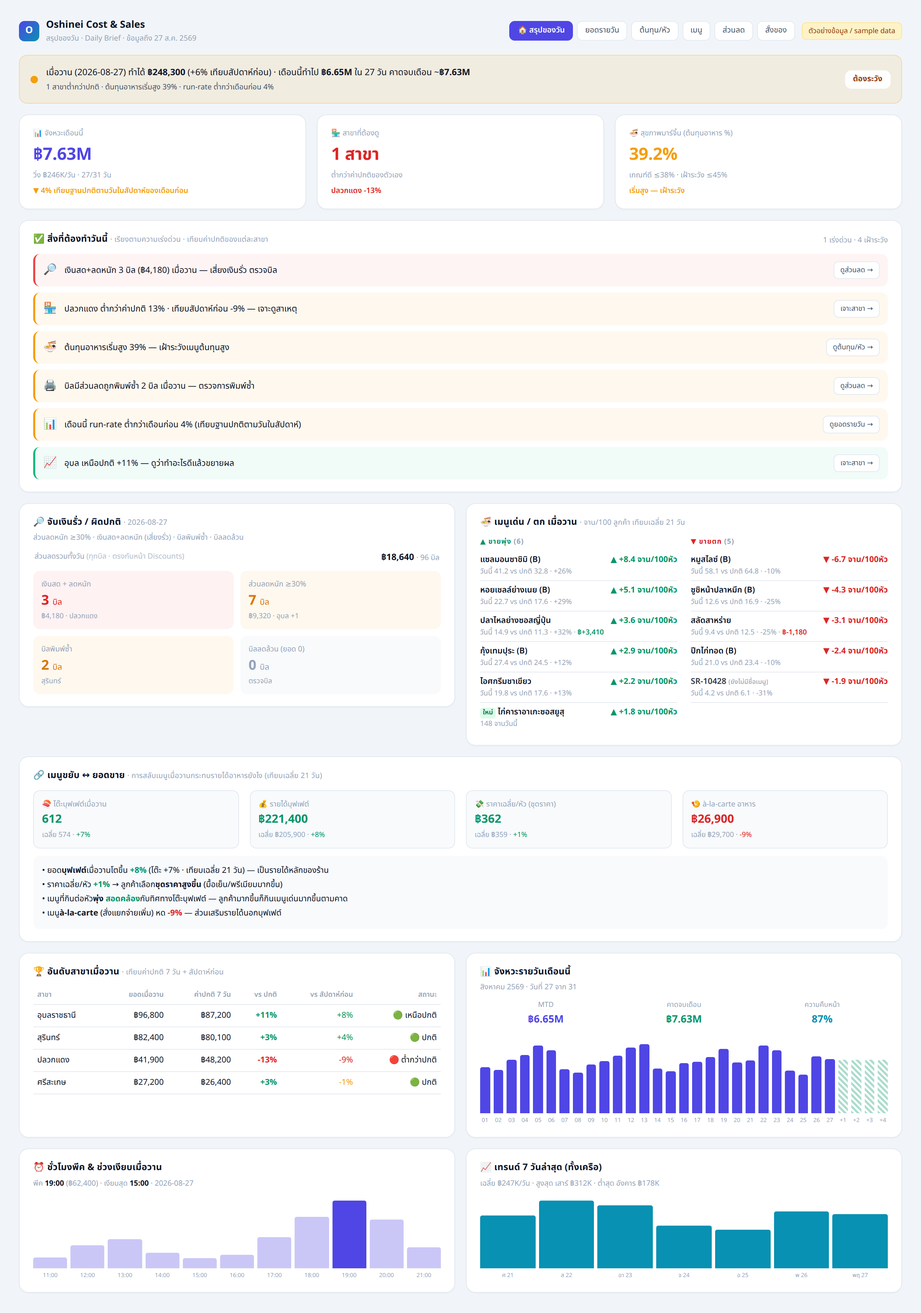
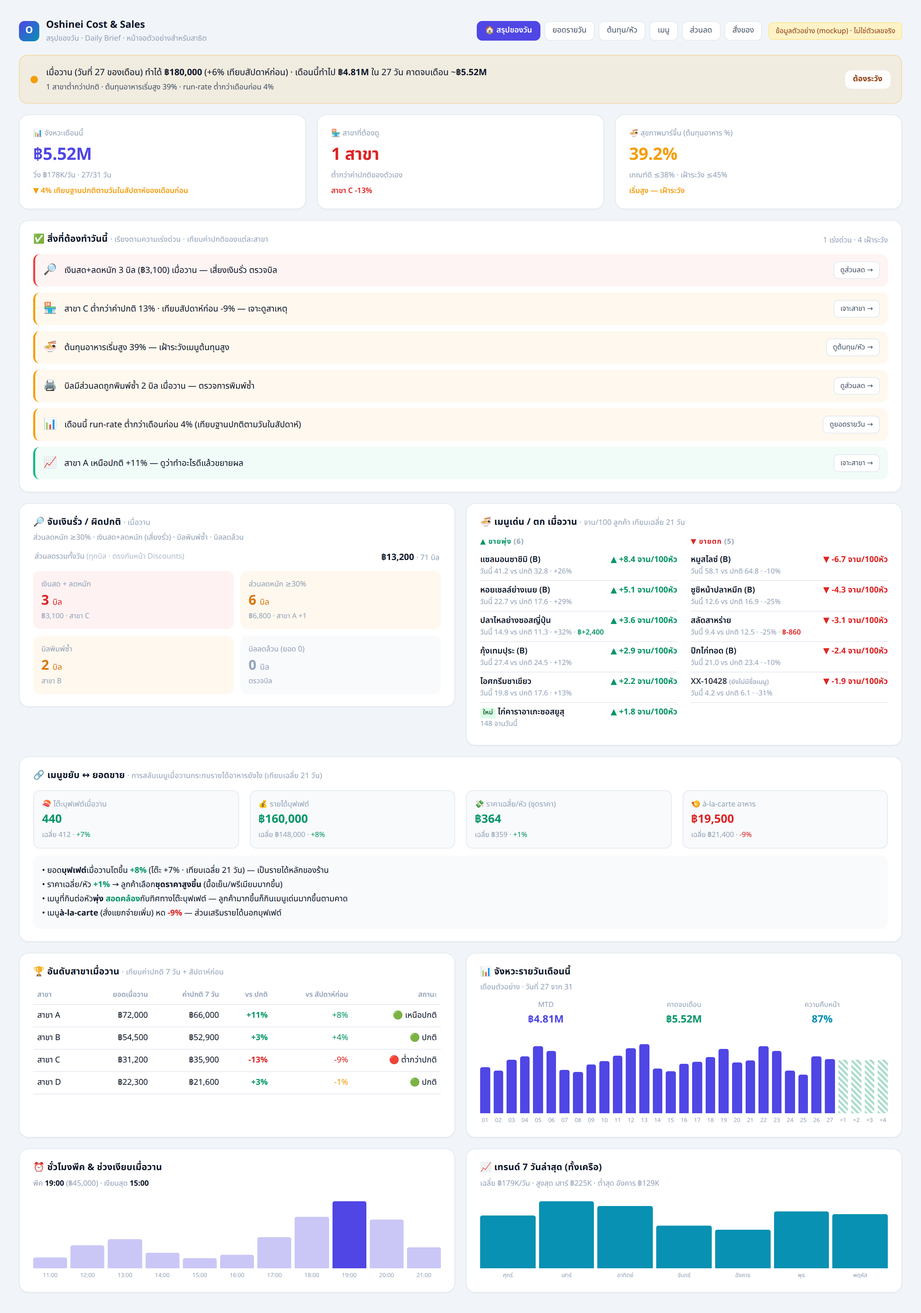
docs(linkedin): anonymise the sample brief and add post captions
Branch names replaced with A-D, every figure re-based so nothing reads
like our real numbers, and the demo badge now says so outright. Post copy
loses the branch names too, and gains an image caption + alt text.

Claude-Session: https://claude.ai/code/session_013wHaLCNV3haVv7AymgBD7E

diff --git a/docs/linkedin/daily-brief-sample.html b/docs/linkedin/daily-brief-sample.html
@@ -89,7 +89,7 @@ td{padding:7px 6px;border-bottom:1px solid var(--border)}
     <div class="logo">O</div>
     <div>
       <div style="font-size:14.5px;font-weight:700">Oshinei Cost &amp; Sales</div>
-      <div class="small">สรุปของวัน · Daily Brief · ข้อมูลถึง 27 ส.ค. 2569</div>
+      <div class="small">สรุปของวัน · Daily Brief · หน้าจอตัวอย่างสำหรับสาธิต</div>
     </div>
   </div>
   <div style="display:flex;align-items:center;gap:10px">
@@ -97,7 +97,7 @@ td{padding:7px 6px;border-bottom:1px solid var(--border)}
       <span class="tab on">🏠 สรุปของวัน</span><span class="tab">ยอดรายวัน</span><span class="tab">ต้นทุน/หัว</span>
       <span class="tab">เมนู</span><span class="tab">ส่วนลด</span><span class="tab">สั่งของ</span>
     </div>
-    <span class="demo">ตัวอย่างข้อมูล / sample data</span>
+    <span class="demo">ข้อมูลตัวอย่าง (mockup) · ไม่ใช่ตัวเลขจริง</span>
   </div>
 </div>
 
@@ -105,7 +105,7 @@ td{padding:7px 6px;border-bottom:1px solid var(--border)}
 <div class="band mb">
   <span class="dot"></span>
   <div style="flex:1">
-    <p style="font-size:13px">เมื่อวาน (2026-08-27) ทำได้ <b>฿248,300</b> (+6% เทียบสัปดาห์ก่อน) · เดือนนี้ทำไป <b>฿6.65M</b> ใน 27 วัน คาดจบเดือน ~<b>฿7.63M</b></p>
+    <p style="font-size:13px">เมื่อวาน (วันที่ 27 ของเดือน) ทำได้ <b>฿180,000</b> (+6% เทียบสัปดาห์ก่อน) · เดือนนี้ทำไป <b>฿4.81M</b> ใน 27 วัน คาดจบเดือน ~<b>฿5.52M</b></p>
     <p style="font-size:11px;color:var(--text2);margin-top:3px">1 สาขาต่ำกว่าปกติ · ต้นทุนอาหารเริ่มสูง 39% · run-rate ต่ำกว่าเดือนก่อน 4%</p>
   </div>
   <span class="pill">ต้องระวัง</span>
@@ -114,13 +114,13 @@ td{padding:7px 6px;border-bottom:1px solid var(--border)}
 <!-- tiles -->
 <div class="grid mb" style="grid-template-columns:repeat(3,1fr)">
   <div class="card p5 tile"><p class="lab">📊 จังหวะเดือนนี้</p>
-    <p class="val" style="color:#4f46e5">฿7.63M</p>
-    <p class="sub">วิ่ง ฿246K/วัน · 27/31 วัน</p>
+    <p class="val" style="color:#4f46e5">฿5.52M</p>
+    <p class="sub">วิ่ง ฿178K/วัน · 27/31 วัน</p>
     <p class="foot" style="color:#f59e0b">▼ 4% เทียบฐานปกติตามวันในสัปดาห์ของเดือนก่อน</p></div>
   <div class="card p5 tile"><p class="lab">🏪 สาขาที่ต้องดู</p>
     <p class="val" style="color:#dc2626">1 สาขา</p>
     <p class="sub">ต่ำกว่าค่าปกติของตัวเอง</p>
-    <p class="foot" style="color:#dc2626">ปลวกแดง -13%</p></div>
+    <p class="foot" style="color:#dc2626">สาขา C -13%</p></div>
   <div class="card p5 tile"><p class="lab">🍜 สุขภาพมาร์จิ้น (ต้นทุนอาหาร %)</p>
     <p class="val" style="color:#f59e0b">39.2%</p>
     <p class="sub">เกณฑ์ดี ≤38% · เฝ้าระวัง ≤45%</p>
@@ -133,27 +133,27 @@ td{padding:7px 6px;border-bottom:1px solid var(--border)}
     <h2 class="sec">✅ สิ่งที่ต้องทำวันนี้ <span class="small">· เรียงตามความเร่งด่วน · เทียบค่าปกติของแต่ละสาขา</span></h2>
     <span class="small">1 เร่งด่วน · 4 เฝ้าระวัง</span>
   </div>
-  <div class="act red"><span>🔎</span><span class="t">เงินสด+ลดหนัก 3 บิล (฿4,180) เมื่อวาน — เสี่ยงเงินรั่ว ตรวจบิล</span><span class="btn">ดูส่วนลด →</span></div>
-  <div class="act amb"><span>🏪</span><span class="t">ปลวกแดง ต่ำกว่าค่าปกติ 13% · เทียบสัปดาห์ก่อน -9% — เจาะดูสาเหตุ</span><span class="btn">เจาะสาขา →</span></div>
+  <div class="act red"><span>🔎</span><span class="t">เงินสด+ลดหนัก 3 บิล (฿3,100) เมื่อวาน — เสี่ยงเงินรั่ว ตรวจบิล</span><span class="btn">ดูส่วนลด →</span></div>
+  <div class="act amb"><span>🏪</span><span class="t">สาขา C ต่ำกว่าค่าปกติ 13% · เทียบสัปดาห์ก่อน -9% — เจาะดูสาเหตุ</span><span class="btn">เจาะสาขา →</span></div>
   <div class="act amb"><span>🍜</span><span class="t">ต้นทุนอาหารเริ่มสูง 39% — เฝ้าระวังเมนูต้นทุนสูง</span><span class="btn">ดูต้นทุน/หัว →</span></div>
   <div class="act amb"><span>🖨</span><span class="t">บิลมีส่วนลดถูกพิมพ์ซ้ำ 2 บิล เมื่อวาน — ตรวจการพิมพ์ซ้ำ</span><span class="btn">ดูส่วนลด →</span></div>
   <div class="act amb"><span>📊</span><span class="t">เดือนนี้ run-rate ต่ำกว่าเดือนก่อน 4% (เทียบฐานปกติตามวันในสัปดาห์)</span><span class="btn">ดูยอดรายวัน →</span></div>
-  <div class="act grn" style="margin-bottom:0"><span>📈</span><span class="t">อุบล เหนือปกติ +11% — ดูว่าทำอะไรดีแล้วขยายผล</span><span class="btn">เจาะสาขา →</span></div>
+  <div class="act grn" style="margin-bottom:0"><span>📈</span><span class="t">สาขา A เหนือปกติ +11% — ดูว่าทำอะไรดีแล้วขยายผล</span><span class="btn">เจาะสาขา →</span></div>
 </div>
 
 <!-- leak + movers -->
 <div class="grid mb" style="grid-template-columns:1fr 1fr;align-items:start">
   <div class="card p5">
-    <h2 class="sec">🔎 จับเงินรั่ว / ผิดปกติ <span class="small">· 2026-08-27</span></h2>
+    <h2 class="sec">🔎 จับเงินรั่ว / ผิดปกติ <span class="small">· เมื่อวาน</span></h2>
     <p class="small" style="margin:3px 0 11px">ส่วนลดหนัก ≥30% · เงินสด+ลดหนัก (เสี่ยงรั่ว) · บิลพิมพ์ซ้ำ · บิลลดล้วน</p>
     <div style="display:flex;justify-content:space-between;margin-bottom:10px;padding:0 2px">
       <span style="font-size:11px;color:var(--muted)">ส่วนลดรวมทั้งวัน <span style="opacity:.7">(ทุกบิล · ตรงกับหน้า Discounts)</span></span>
-      <span style="font-size:13px;font-weight:700">฿18,640 <span style="font-size:11px;font-weight:400;color:var(--muted)">· 96 บิล</span></span>
+      <span style="font-size:13px;font-weight:700">฿13,200 <span style="font-size:11px;font-weight:400;color:var(--muted)">· 71 บิล</span></span>
     </div>
     <div class="grid" style="grid-template-columns:1fr 1fr;gap:10px">
-      <div class="leakbox" style="background:rgba(239,68,68,.07)"><p class="l">เงินสด + ลดหนัก</p><p class="v" style="color:#dc2626">3 <span style="font-size:12px;font-weight:400">บิล</span></p><p class="s">฿4,180 · ปลวกแดง</p></div>
-      <div class="leakbox" style="background:rgba(245,158,11,.07)"><p class="l">ส่วนลดหนัก ≥30%</p><p class="v" style="color:#d97706">7 <span style="font-size:12px;font-weight:400">บิล</span></p><p class="s">฿9,320 · อุบล +1</p></div>
-      <div class="leakbox" style="background:rgba(245,158,11,.07)"><p class="l">บิลพิมพ์ซ้ำ</p><p class="v" style="color:#d97706">2 <span style="font-size:12px;font-weight:400">บิล</span></p><p class="s">สุรินทร์</p></div>
+      <div class="leakbox" style="background:rgba(239,68,68,.07)"><p class="l">เงินสด + ลดหนัก</p><p class="v" style="color:#dc2626">3 <span style="font-size:12px;font-weight:400">บิล</span></p><p class="s">฿3,100 · สาขา C</p></div>
+      <div class="leakbox" style="background:rgba(245,158,11,.07)"><p class="l">ส่วนลดหนัก ≥30%</p><p class="v" style="color:#d97706">6 <span style="font-size:12px;font-weight:400">บิล</span></p><p class="s">฿6,800 · สาขา A +1</p></div>
+      <div class="leakbox" style="background:rgba(245,158,11,.07)"><p class="l">บิลพิมพ์ซ้ำ</p><p class="v" style="color:#d97706">2 <span style="font-size:12px;font-weight:400">บิล</span></p><p class="s">สาขา B</p></div>
       <div class="leakbox" style="background:var(--subtle)"><p class="l">บิลลดล้วน (ยอด 0)</p><p class="v" style="color:#94a3b8">0 <span style="font-size:12px;font-weight:400">บิล</span></p><p class="s">ตรวจบิล</p></div>
     </div>
   </div>
@@ -165,7 +165,7 @@ td{padding:7px 6px;border-bottom:1px solid var(--border)}
         <p class="hd" style="color:#059669">▲ ขายพุ่ง <span style="color:var(--muted)">(6)</span></p>
         <div class="mv"><div class="r1"><span class="n">แซลมอนซาชิมิ (B)</span><span class="d" style="color:#059669">▲ +8.4 จาน/100หัว</span></div><div class="c tabular">วันนี้ 41.2 vs ปกติ 32.8 · +26%</div></div>
         <div class="mv"><div class="r1"><span class="n">หอยเชลล์ย่างเนย (B)</span><span class="d" style="color:#059669">▲ +5.1 จาน/100หัว</span></div><div class="c tabular">วันนี้ 22.7 vs ปกติ 17.6 · +29%</div></div>
-        <div class="mv"><div class="r1"><span class="n">ปลาไหลย่างซอสญี่ปุ่น</span><span class="d" style="color:#059669">▲ +3.6 จาน/100หัว</span></div><div class="c tabular">วันนี้ 14.9 vs ปกติ 11.3 · +32% · <span style="color:#059669;font-weight:600">฿+3,410</span></div></div>
+        <div class="mv"><div class="r1"><span class="n">ปลาไหลย่างซอสญี่ปุ่น</span><span class="d" style="color:#059669">▲ +3.6 จาน/100หัว</span></div><div class="c tabular">วันนี้ 14.9 vs ปกติ 11.3 · +32% · <span style="color:#059669;font-weight:600">฿+2,400</span></div></div>
         <div class="mv"><div class="r1"><span class="n">กุ้งเทมปุระ (B)</span><span class="d" style="color:#059669">▲ +2.9 จาน/100หัว</span></div><div class="c tabular">วันนี้ 27.4 vs ปกติ 24.5 · +12%</div></div>
         <div class="mv"><div class="r1"><span class="n">ไอศกรีมชาเขียว</span><span class="d" style="color:#059669">▲ +2.2 จาน/100หัว</span></div><div class="c tabular">วันนี้ 19.8 vs ปกติ 17.6 · +13%</div></div>
         <div class="mv" style="border:0"><div class="r1"><span class="n"><span style="font-size:9.5px;background:#dcfce7;color:#166534;padding:1px 4px;border-radius:4px">ใหม่</span> ไก่คาราอาเกะซอสยูสุ</span><span class="d" style="color:#059669">▲ +1.8 จาน/100หัว</span></div><div class="c tabular">148 จานวันนี้</div></div>
@@ -174,9 +174,9 @@ td{padding:7px 6px;border-bottom:1px solid var(--border)}
         <p class="hd" style="color:#dc2626">▼ ขายตก <span style="color:var(--muted)">(5)</span></p>
         <div class="mv"><div class="r1"><span class="n">หมูสไลซ์ (B)</span><span class="d" style="color:#dc2626">▼ -6.7 จาน/100หัว</span></div><div class="c tabular">วันนี้ 58.1 vs ปกติ 64.8 · -10%</div></div>
         <div class="mv"><div class="r1"><span class="n">ซูชิหน้าปลาหมึก (B)</span><span class="d" style="color:#dc2626">▼ -4.3 จาน/100หัว</span></div><div class="c tabular">วันนี้ 12.6 vs ปกติ 16.9 · -25%</div></div>
-        <div class="mv"><div class="r1"><span class="n">สลัดสาหร่าย</span><span class="d" style="color:#dc2626">▼ -3.1 จาน/100หัว</span></div><div class="c tabular">วันนี้ 9.4 vs ปกติ 12.5 · -25% · <span style="color:#dc2626;font-weight:600">฿-1,180</span></div></div>
+        <div class="mv"><div class="r1"><span class="n">สลัดสาหร่าย</span><span class="d" style="color:#dc2626">▼ -3.1 จาน/100หัว</span></div><div class="c tabular">วันนี้ 9.4 vs ปกติ 12.5 · -25% · <span style="color:#dc2626;font-weight:600">฿-860</span></div></div>
         <div class="mv"><div class="r1"><span class="n">ปีกไก่ทอด (B)</span><span class="d" style="color:#dc2626">▼ -2.4 จาน/100หัว</span></div><div class="c tabular">วันนี้ 21.0 vs ปกติ 23.4 · -10%</div></div>
-        <div class="mv"><div class="r1"><span class="n" style="opacity:.85">SR-10428 <span style="font-size:9.5px;color:var(--muted)">(ยังไม่มีชื่อเมนู)</span></span><span class="d" style="color:#dc2626">▼ -1.9 จาน/100หัว</span></div><div class="c tabular">วันนี้ 4.2 vs ปกติ 6.1 · -31%</div></div>
+        <div class="mv"><div class="r1"><span class="n" style="opacity:.85">XX-10428 <span style="font-size:9.5px;color:var(--muted)">(ยังไม่มีชื่อเมนู)</span></span><span class="d" style="color:#dc2626">▼ -1.9 จาน/100หัว</span></div><div class="c tabular">วันนี้ 4.2 vs ปกติ 6.1 · -31%</div></div>
       </div>
     </div>
   </div>
@@ -186,10 +186,10 @@ td{padding:7px 6px;border-bottom:1px solid var(--border)}
 <div class="card p5 mb">
   <h2 class="sec">🔗 เมนูขยับ ↔ ยอดขาย <span class="small">· การสลับเมนูเมื่อวานกระทบรายได้อาหารยังไง (เทียบเฉลี่ย 21 วัน)</span></h2>
   <div class="grid" style="grid-template-columns:repeat(4,1fr);margin:11px 0">
-    <div class="box"><div class="l">🍣 โต๊ะบุฟเฟต์เมื่อวาน</div><div class="v" style="color:#059669">612</div><div class="s">เฉลี่ย 574 · <span style="color:#059669">+7%</span></div></div>
-    <div class="box"><div class="l">💰 รายได้บุฟเฟต์</div><div class="v" style="color:#059669">฿221,400</div><div class="s">เฉลี่ย ฿205,900 · <span style="color:#059669">+8%</span></div></div>
-    <div class="box"><div class="l">💸 ราคาเฉลี่ย/หัว (ชุดราคา)</div><div class="v" style="color:#059669">฿362</div><div class="s">เฉลี่ย ฿359 · <span style="color:#059669">+1%</span></div></div>
-    <div class="box"><div class="l">🍤 à-la-carte อาหาร</div><div class="v" style="color:#dc2626">฿26,900</div><div class="s">เฉลี่ย ฿29,700 · <span style="color:#dc2626">-9%</span></div></div>
+    <div class="box"><div class="l">🍣 โต๊ะบุฟเฟต์เมื่อวาน</div><div class="v" style="color:#059669">440</div><div class="s">เฉลี่ย 412 · <span style="color:#059669">+7%</span></div></div>
+    <div class="box"><div class="l">💰 รายได้บุฟเฟต์</div><div class="v" style="color:#059669">฿160,000</div><div class="s">เฉลี่ย ฿148,000 · <span style="color:#059669">+8%</span></div></div>
+    <div class="box"><div class="l">💸 ราคาเฉลี่ย/หัว (ชุดราคา)</div><div class="v" style="color:#059669">฿364</div><div class="s">เฉลี่ย ฿359 · <span style="color:#059669">+1%</span></div></div>
+    <div class="box"><div class="l">🍤 à-la-carte อาหาร</div><div class="v" style="color:#dc2626">฿19,500</div><div class="s">เฉลี่ย ฿21,400 · <span style="color:#dc2626">-9%</span></div></div>
   </div>
   <div class="narr">
     • ยอด<b>บุฟเฟต์</b>เมื่อวานโตขึ้น <b style="color:#059669">+8%</b> (โต๊ะ +7% · เทียบเฉลี่ย 21 วัน) — เป็นรายได้หลักของร้าน<br>
@@ -205,18 +205,18 @@ td{padding:7px 6px;border-bottom:1px solid var(--border)}
     <h2 class="sec">🏆 อันดับสาขาเมื่อวาน <span class="small">· เทียบค่าปกติ 7 วัน + สัปดาห์ก่อน</span></h2>
     <table style="margin-top:9px">
       <tr><th>สาขา</th><th>ยอดเมื่อวาน</th><th>ค่าปกติ 7 วัน</th><th>vs ปกติ</th><th>vs สัปดาห์ก่อน</th><th>สถานะ</th></tr>
-      <tr><td>อุบลราชธานี</td><td class="tabular" style="text-align:right">฿96,800</td><td class="tabular" style="text-align:right">฿87,200</td><td class="tabular" style="text-align:right;color:#059669;font-weight:700">+11%</td><td class="tabular" style="text-align:right;color:#059669">+8%</td><td style="text-align:right">🟢 เหนือปกติ</td></tr>
-      <tr><td>สุรินทร์</td><td class="tabular" style="text-align:right">฿82,400</td><td class="tabular" style="text-align:right">฿80,100</td><td class="tabular" style="text-align:right;color:#059669;font-weight:700">+3%</td><td class="tabular" style="text-align:right;color:#059669">+4%</td><td style="text-align:right">🟢 ปกติ</td></tr>
-      <tr><td>ปลวกแดง</td><td class="tabular" style="text-align:right">฿41,900</td><td class="tabular" style="text-align:right">฿48,200</td><td class="tabular" style="text-align:right;color:#dc2626;font-weight:700">-13%</td><td class="tabular" style="text-align:right;color:#dc2626">-9%</td><td style="text-align:right">🔴 ต่ำกว่าปกติ</td></tr>
-      <tr><td>ศรีสะเกษ</td><td class="tabular" style="text-align:right">฿27,200</td><td class="tabular" style="text-align:right">฿26,400</td><td class="tabular" style="text-align:right;color:#059669;font-weight:700">+3%</td><td class="tabular" style="text-align:right;color:#f59e0b">-1%</td><td style="text-align:right">🟢 ปกติ</td></tr>
+      <tr><td>สาขา A</td><td class="tabular" style="text-align:right">฿72,000</td><td class="tabular" style="text-align:right">฿66,000</td><td class="tabular" style="text-align:right;color:#059669;font-weight:700">+11%</td><td class="tabular" style="text-align:right;color:#059669">+8%</td><td style="text-align:right">🟢 เหนือปกติ</td></tr>
+      <tr><td>สาขา B</td><td class="tabular" style="text-align:right">฿54,500</td><td class="tabular" style="text-align:right">฿52,900</td><td class="tabular" style="text-align:right;color:#059669;font-weight:700">+3%</td><td class="tabular" style="text-align:right;color:#059669">+4%</td><td style="text-align:right">🟢 ปกติ</td></tr>
+      <tr><td>สาขา C</td><td class="tabular" style="text-align:right">฿31,200</td><td class="tabular" style="text-align:right">฿35,900</td><td class="tabular" style="text-align:right;color:#dc2626;font-weight:700">-13%</td><td class="tabular" style="text-align:right;color:#dc2626">-9%</td><td style="text-align:right">🔴 ต่ำกว่าปกติ</td></tr>
+      <tr><td>สาขา D</td><td class="tabular" style="text-align:right">฿22,300</td><td class="tabular" style="text-align:right">฿21,600</td><td class="tabular" style="text-align:right;color:#059669;font-weight:700">+3%</td><td class="tabular" style="text-align:right;color:#f59e0b">-1%</td><td style="text-align:right">🟢 ปกติ</td></tr>
     </table>
   </div>
   <div class="card p5">
     <h2 class="sec">📊 จังหวะรายวันเดือนนี้</h2>
-    <p class="small" style="margin:3px 0 10px">สิงหาคม 2569 · วันที่ 27 จาก 31</p>
+    <p class="small" style="margin:3px 0 10px">เดือนตัวอย่าง · วันที่ 27 จาก 31</p>
     <div class="kpi3">
-      <div><div class="l">MTD</div><div class="v" style="color:#4f46e5">฿6.65M</div></div>
-      <div><div class="l">คาดจบเดือน</div><div class="v" style="color:#059669">฿7.63M</div></div>
+      <div><div class="l">MTD</div><div class="v" style="color:#4f46e5">฿4.81M</div></div>
+      <div><div class="l">คาดจบเดือน</div><div class="v" style="color:#059669">฿5.52M</div></div>
       <div><div class="l">ความคืบหน้า</div><div class="v" style="color:#0891b2">87%</div></div>
     </div>
     <div class="chart" id="c-pace"></div>
@@ -227,12 +227,12 @@ td{padding:7px 6px;border-bottom:1px solid var(--border)}
 <div class="grid" style="grid-template-columns:1fr 1fr">
   <div class="card p5">
     <h2 class="sec">⏰ ชั่วโมงพีค &amp; ช่วงเงียบเมื่อวาน</h2>
-    <p class="small" style="margin:4px 0 2px">พีค <b style="color:var(--text)">19:00</b> (฿62,400) · เงียบสุด <b style="color:var(--text)">15:00</b> · 2026-08-27</p>
+    <p class="small" style="margin:4px 0 2px">พีค <b style="color:var(--text)">19:00</b> (฿45,000) · เงียบสุด <b style="color:var(--text)">15:00</b></p>
     <div class="chart" id="c-peak"></div>
   </div>
   <div class="card p5">
     <h2 class="sec">📈 เทรนด์ 7 วันล่าสุด (ทั้งเครือ)</h2>
-    <p class="small" style="margin:4px 0 2px">เฉลี่ย ฿247K/วัน · สูงสุด เสาร์ ฿312K · ต่ำสุด อังคาร ฿178K</p>
+    <p class="small" style="margin:4px 0 2px">เฉลี่ย ฿179K/วัน · สูงสุด เสาร์ ฿225K · ต่ำสุด อังคาร ฿129K</p>
     <div class="chart" id="c-trend"></div>
   </div>
 </div>
@@ -246,18 +246,18 @@ function bars(id, data, labels, colors, max){
   }).join('');
 }
 // month pace: 27 actual + 4 projected
-const act=[212,198,245,268,312,289,201,188,225,241,266,301,318,207,192,229,238,259,295,234,244,312,289,196,178,262,248];
-const proj=[246,246,246,246];
+const act=[155,142,178,190,225,208,146,138,163,175,192,218,230,150,140,166,172,188,214,170,177,225,208,142,129,190,180];
+const proj=[178,178,178,178];
 bars('c-pace',[...act,...proj],
   [...act.map((_,i)=>String(i+1).padStart(2,'0')),'+1','+2','+3','+4'],
   [...act.map(()=> '#4f46e5'), ...proj.map(()=> 'repeating-linear-gradient(45deg,#05966955,#05966955 3px,#fff 3px,#fff 6px)')],
-  330);
+  240);
 // peak hours 11..21
-const ph=[9800,21400,26800,14200,9100,12600,28900,47300,62400,44800,19600];
+const ph=[7100,15500,19400,10300,6600,9100,20900,34200,45000,32400,14200];
 bars('c-peak',ph,['11:00','12:00','13:00','14:00','15:00','16:00','17:00','18:00','19:00','20:00','21:00'],
-  ph.map(v=> v===62400 ? '#4f46e5':'rgba(79,70,229,0.30)'),66000);
+  ph.map(v=> v===45000 ? '#4f46e5':'rgba(79,70,229,0.30)'),48000);
 // last 7 days
-const t7=[244,312,289,196,178,262,248];
-bars('c-trend',t7,['ศ 21','ส 22','อา 23','จ 24','อ 25','พ 26','พฤ 27'],t7.map(()=> '#0891b2'),330);
+const t7=[177,225,208,142,129,190,180];
+bars('c-trend',t7,['ศุกร์','เสาร์','อาทิตย์','จันทร์','อังคาร','พุธ','พฤหัส'],t7.map(()=> '#0891b2'),240);
 </script>
 </body></html>

diff --git a/docs/linkedin/render.py b/docs/linkedin/render.py
@@ -1,10 +1,10 @@
 from playwright.sync_api import sync_playwright
-import sys
+import sys, os
 with sync_playwright() as p:
     b = p.chromium.launch(executable_path="/opt/pw-browsers/chromium-1194/chrome-linux/chrome",
                           args=["--no-sandbox","--font-render-hinting=none"])
     pg = b.new_page(viewport={"width":1360,"height":1400}, device_scale_factor=2)
-    pg.goto("file://"+sys.argv[1])
+    pg.goto("file://"+os.path.abspath(sys.argv[1]))
     pg.wait_for_timeout(900)
     pg.screenshot(path=sys.argv[2], full_page=True)
     b.close()

diff --git a/docs/linkedin/POST_2026-08-28.md b/docs/linkedin/POST_2026-08-28.md
@@ -1,38 +1,41 @@
 # LinkedIn post — 28 Aug 2026
 
 **Image:** `docs/linkedin/daily-brief-sample-2026-08-28.png`
-(sample data, not our real numbers; the UI is Thai because the people who use it are)
+Mockup screen. Branches are labelled A–D and every number is made up — the layout is
+the real thing, the data is not. UI is Thai because the people who use it are.
 
 ---
 
-Yesterday I wrote about the ordering tool learning its own safety buffer from what
-the kitchen actually used, instead of the number I guessed once and never touched again.
+## Post
+
+Yesterday I wrote about the ordering tool learning its own safety buffer from what the
+kitchen actually used, instead of the number I guessed once and never touched again.
 
 Today: the screen I open before anything else. We call it the daily brief.
 
-Before this, my morning was four POS exports, one spreadsheet, and about an hour
-before I knew whether anything had gone wrong the night before. By then the day had
-already started making its own decisions.
+Before this, my morning was four POS exports, one spreadsheet, and about an hour before
+I knew whether anything had gone wrong the night before. By then the day had already
+started making its own decisions.
 
 Now it is one page, and it answers two questions.
 
-What happened yesterday. One sentence at the top with a traffic light: what we sold,
-how that compares to the same day last week, where the month lands if we keep this pace.
-Then three tiles - month pace, branches that need a look, food cost percentage.
+What happened yesterday. One sentence at the top with a traffic light: what we sold, how
+that compares to the same day last week, where the month lands if we keep this pace. Then
+three tiles - month pace, branches that need a look, food cost percentage.
 
-What needs me today. A short list, sorted by how much it hurts. Three cash bills with
-heavy discounts. One branch 13% under its own normal. Food cost creeping past 38%.
-Two discounted bills reprinted. Every line has a button that opens the page where I can
-actually check it.
+What needs me today. A short list, sorted by how much it hurts. Cash bills with heavy
+discounts. A branch running 13% under its own normal. Food cost creeping past 38%.
+Discounted bills that got reprinted. Every line has a button that opens the page where I
+can actually check it.
 
 Two things I would build the same way again.
 
-Compare a branch to itself, not to the others. Pluak Daeng will never out-sell Ubon,
-and it shouldn't have to. Down 13% against its own normal week is the signal.
+Compare a branch to itself, not to the others. Our smallest branch will never out-sell
+the biggest, and it shouldn't have to. Down 13% against its own normal week is the signal.
 
 Count dishes per 100 guests, not per day. If 200 more people walk in, everything sells
-more and I have learned nothing. Per head tells me taste changed, and that is what
-moves food cost.
+more and I have learned nothing. Per head tells me taste changed, and that is what moves
+food cost.
 
 The rule I keep coming back to: if a number on this page doesn't end in something I can
 do, it is decoration. It gets cut.
@@ -41,3 +44,23 @@ Tomorrow, the part underneath it - where the numbers come from every night, and 
 happens when the sync breaks at 2am.
 
 #restauranttech #smallbusiness #dataengineering #foodservice #buildinginpublic
+
+---
+
+## Image caption (post it under the image, or as the first comment)
+
+The daily brief, top to bottom. Traffic light and one sentence for yesterday. Three tiles:
+month pace, branches to look at, food cost. Then the to-do list, sorted by cost of ignoring
+it. Below that: the discount radar (heavy discounts, cash bills with heavy discounts,
+reprints), yesterday's dish movers per 100 guests, each branch against its own normal, month
+pace, peak hour, seven-day trend.
+
+Demo screen - branches are A to D and the numbers are invented. Thai UI, because the
+managers reading it every morning are Thai.
+
+## Alt text
+
+A restaurant dashboard in Thai, one page. An amber status bar summarises yesterday's sales,
+three tiles show month pace, branches to watch and food cost percentage, and a colour-coded
+to-do list ranks the day's issues. Lower panels cover discount anomalies, dishes trending up
+and down per 100 guests, a branch table, month pace, peak hours and a seven-day trend.
